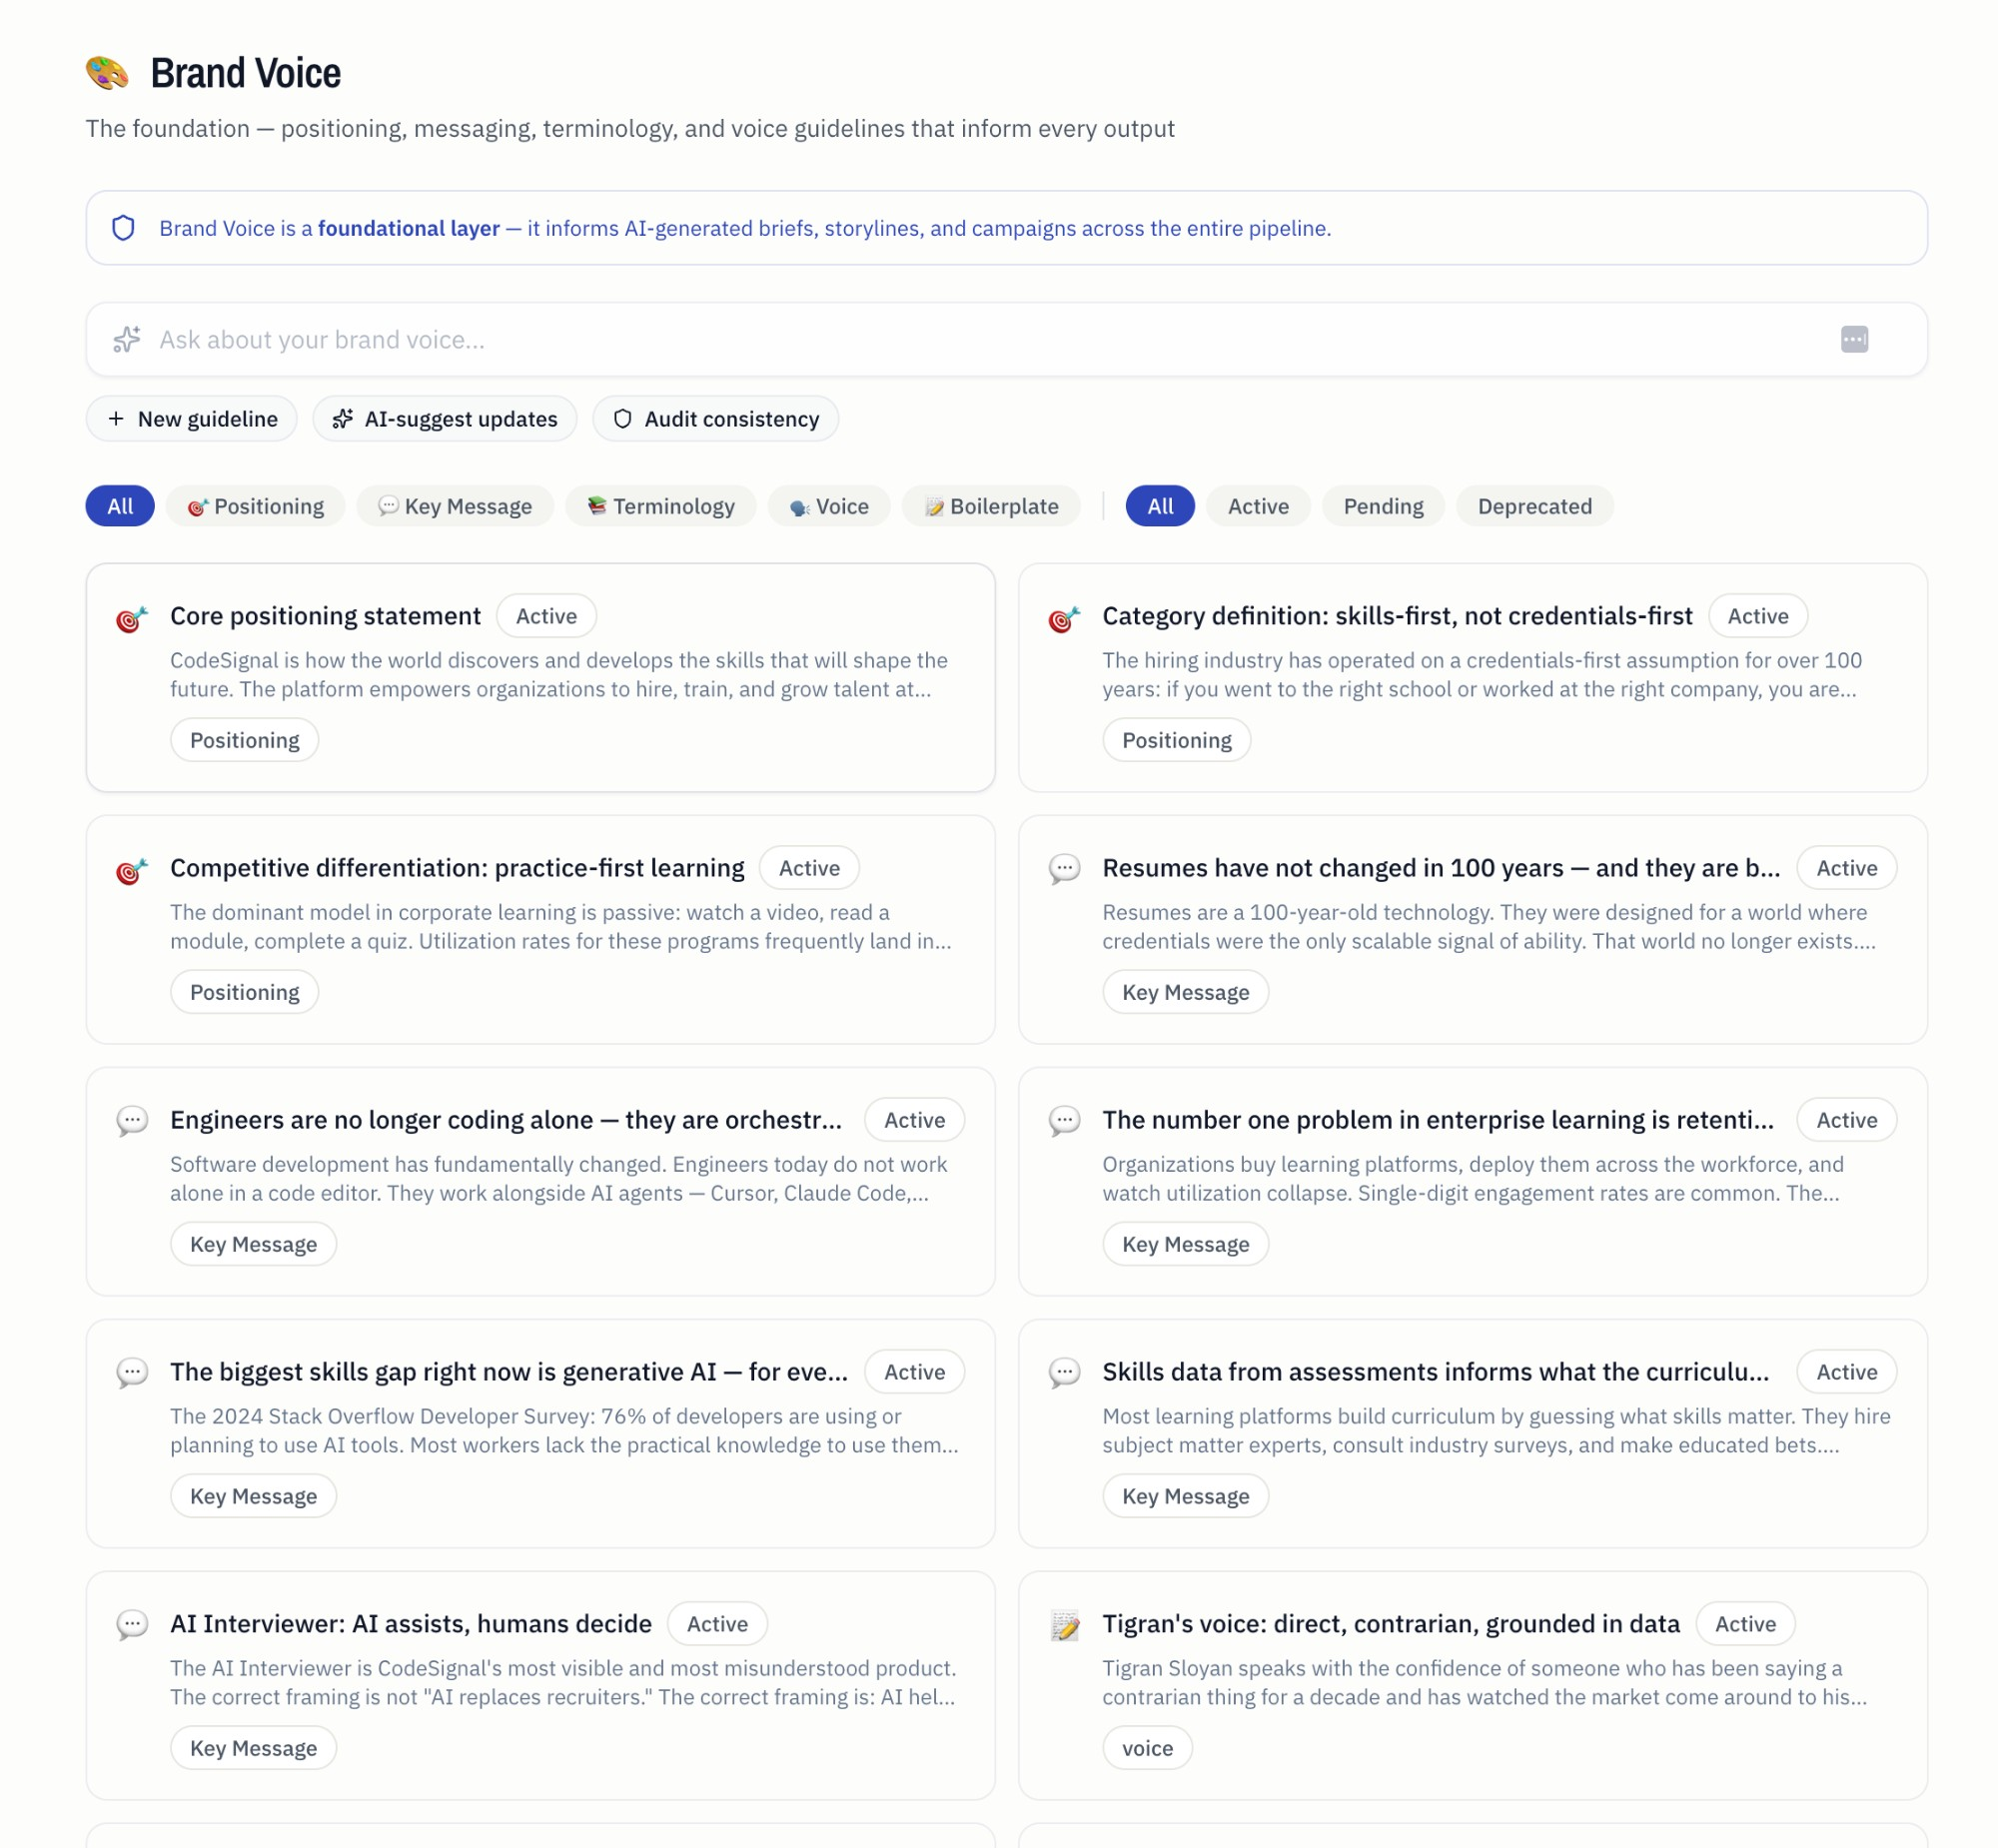
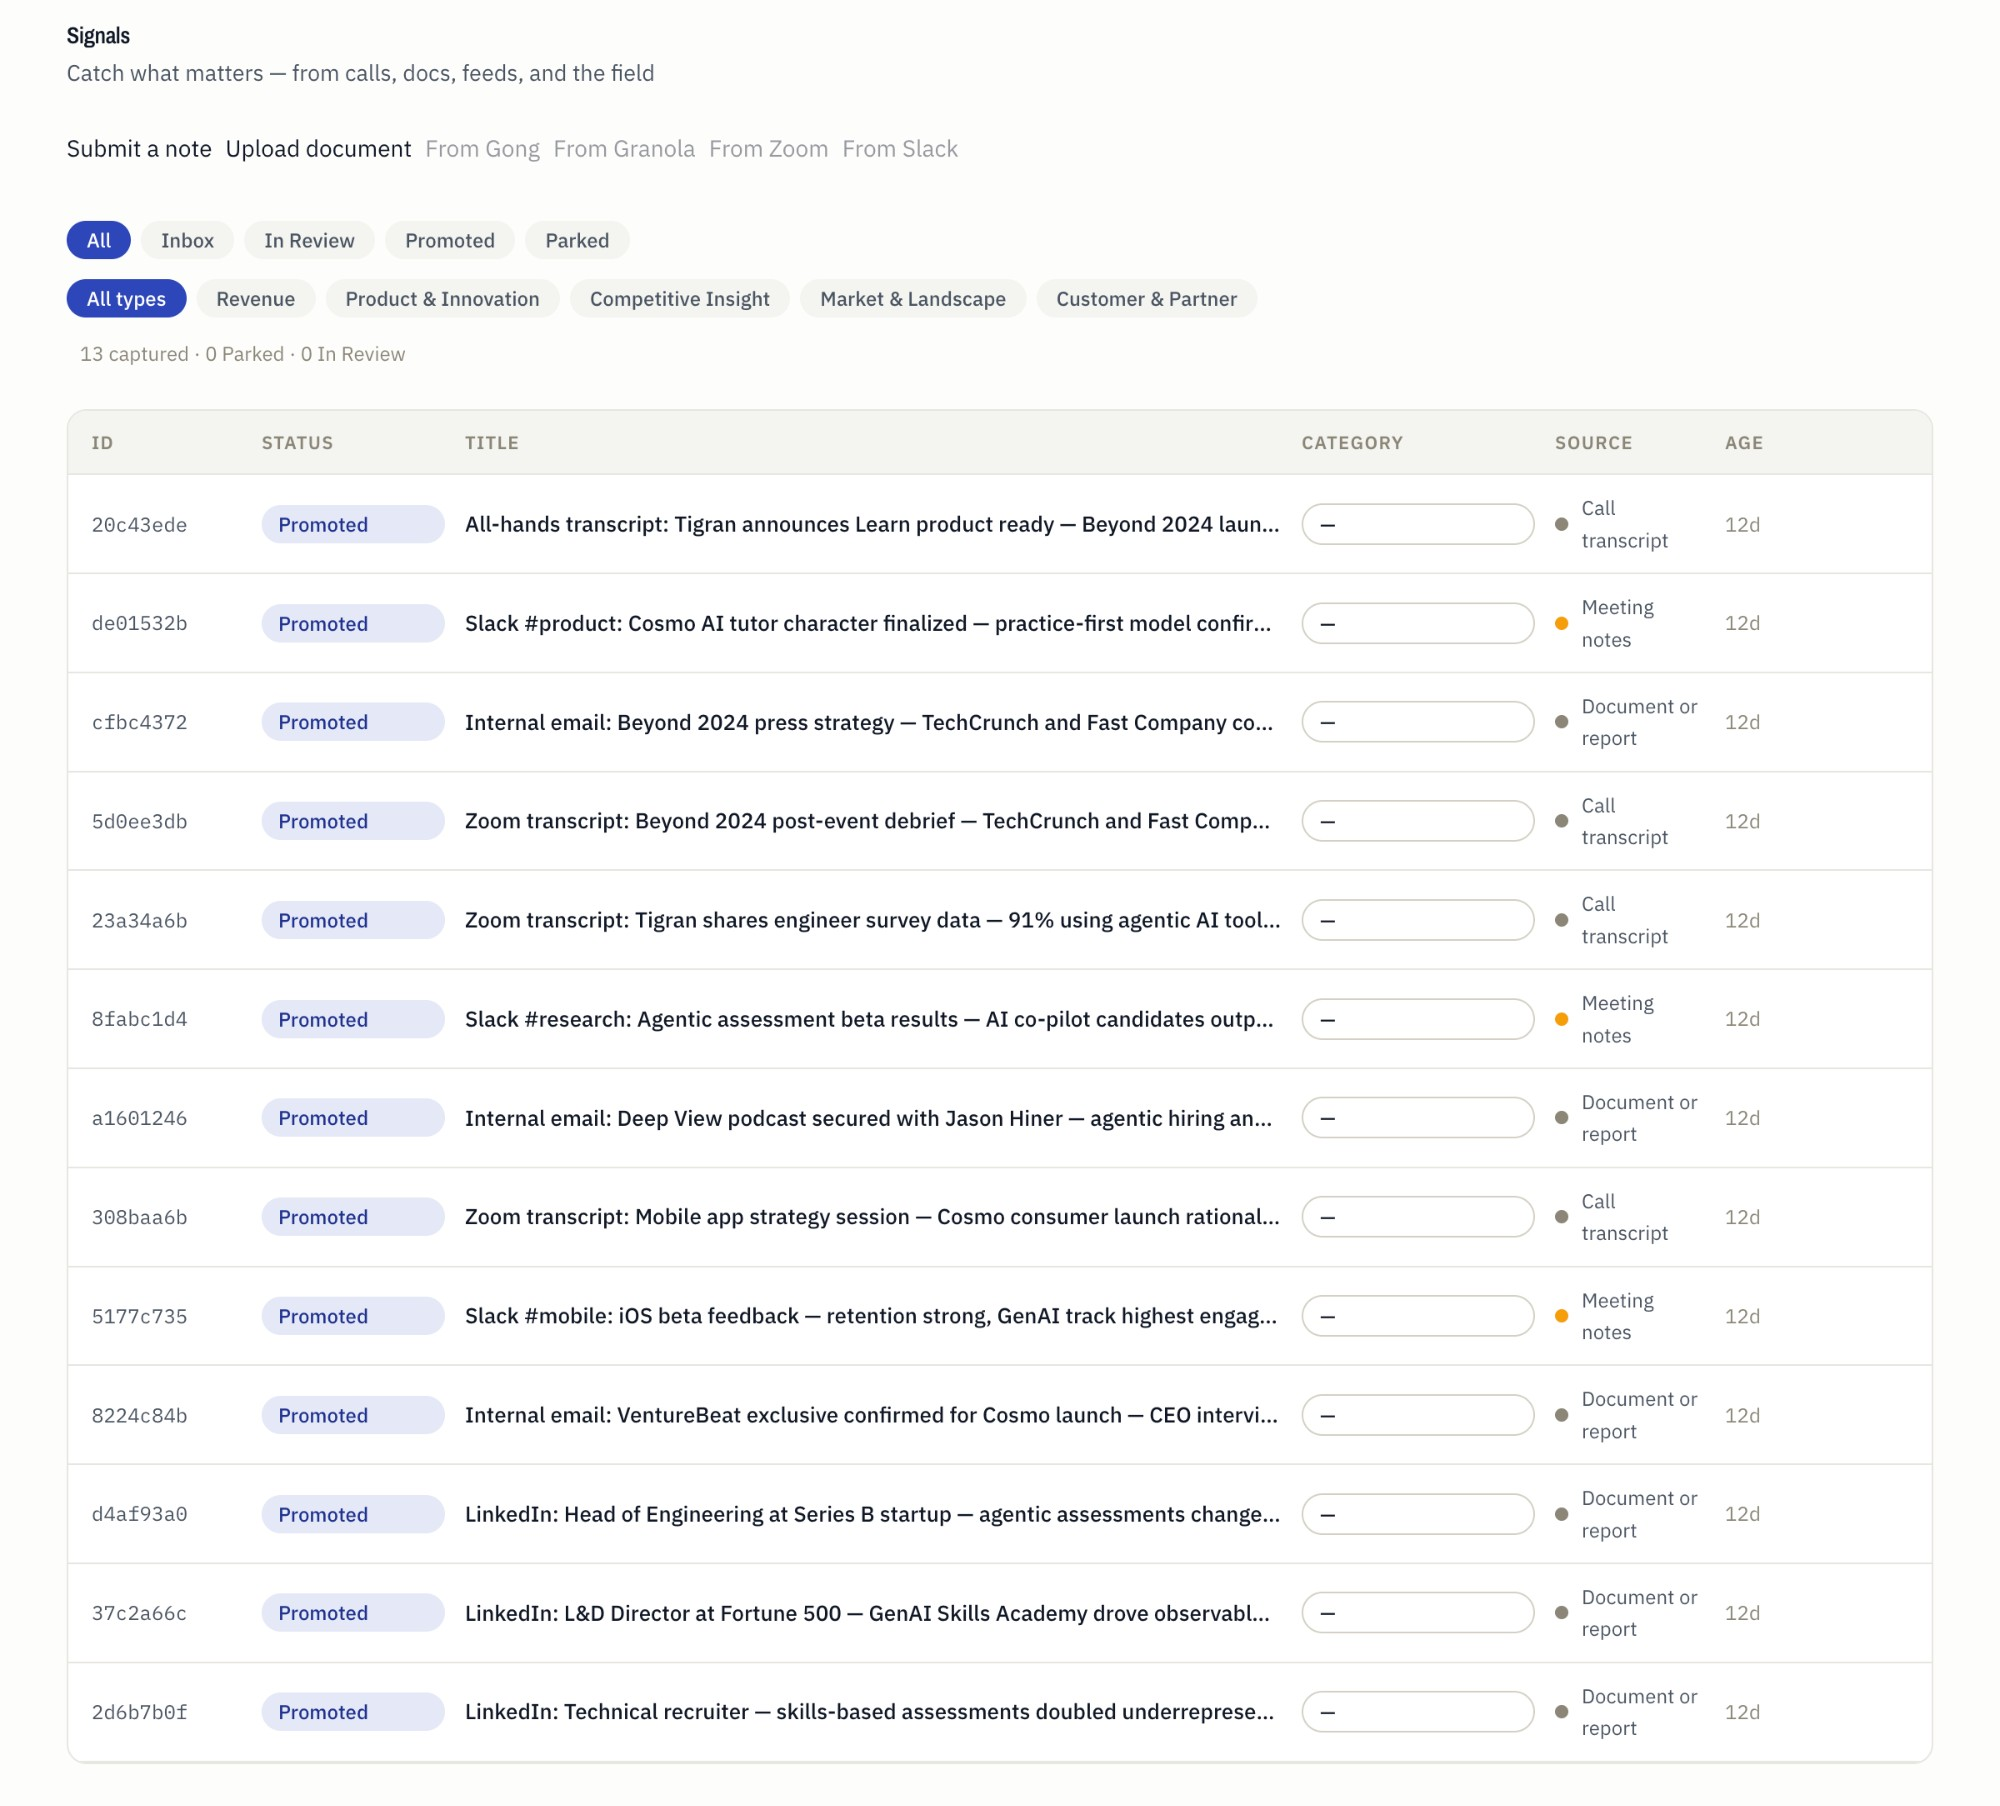
Swap signals screenshot and update author

diff --git a/src/content/blog/information-rich-insights-poor.md b/src/content/blog/information-rich-insights-poor.md
@@ -2,7 +2,7 @@
 title: "Information rich, insights poor."
 date: 2026-05-06
 description: "Every technology company has more signal than it knows what to do with. Most marketing organizations never see it. That gap is where North TK was born."
-author: "Title TK"
+author: "Jason Throckmorton"
 category: "Field Notes"
 accentColor: "coral-50"
 issueNumber: 1